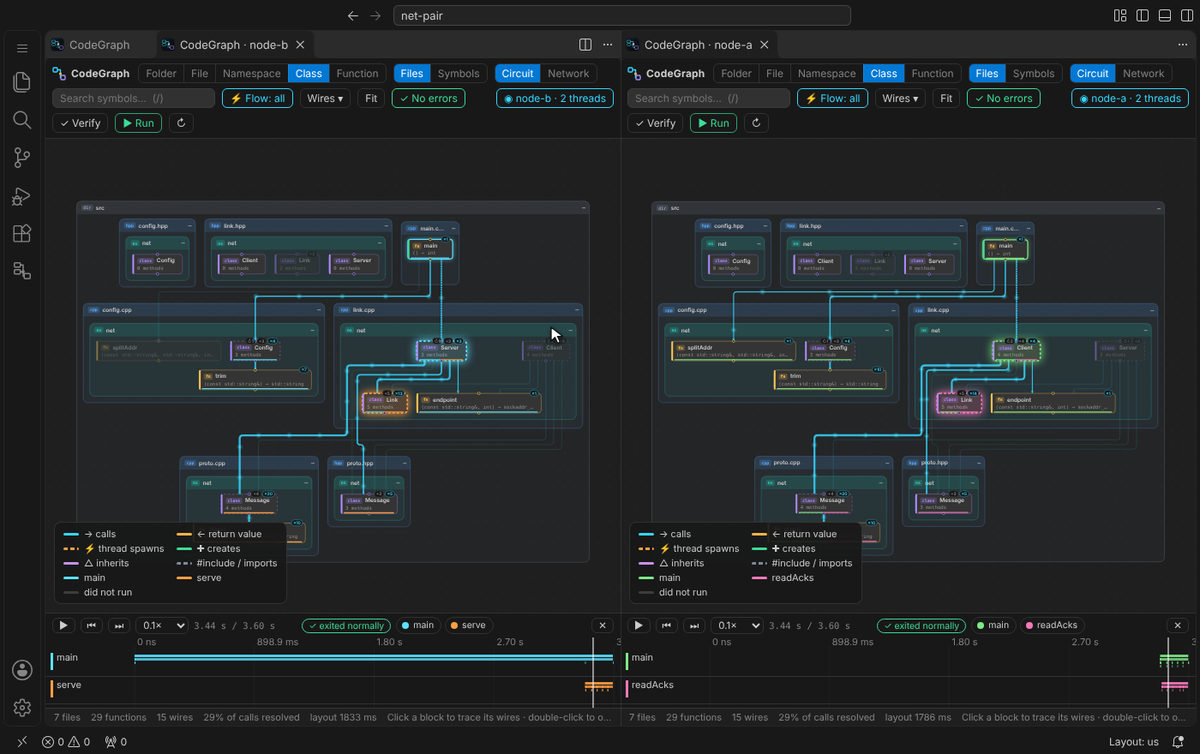
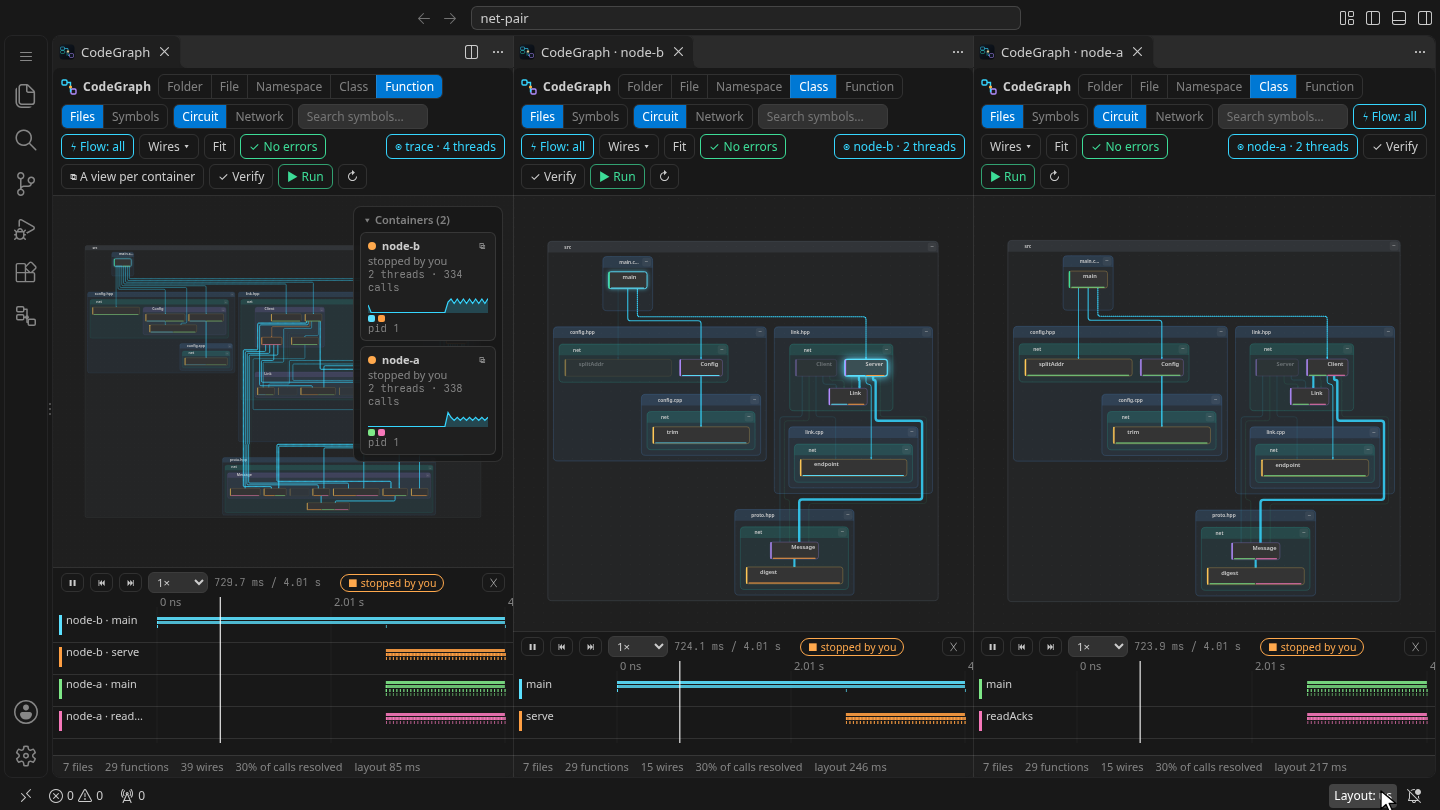
README: new recordings for 0.6.0
The GIFs showed 0.5: start.gif (opening the circuit, now with the level change animated), run.gif
(the C++ router's Run & Trace, now with Ctrl + wheel zoom and the timeline scrollbar), live.gif (the
Compose live view, now with the container cards, the live swimlanes dragged back and one thread
followed, then Stop and the replay) and per-container.png (the run with its cards and a view per
container). Recorded from code-server with Playwright on the examples (examples/cpp/router,
examples/compose/net-pair with more rounds so the live part lasts), cut with ffmpeg and compressed with
gifsicle. Alt texts say what the new pictures show.

diff --git a/README.ko.md b/README.ko.md
@@ -30,7 +30,7 @@
 **▶ 실행**을 누르면 makefile/CMake가 빌드하는 그대로(정의, include·라이브러리 플래그, 실행 위치) 빌드해요.
 `main.cpp` 하나로 프로그램을 여러 개 만들면 어느 걸 실행할지 물어봐요.
 
-![C++ 라우터 실행 & 추적: rx·tx 스레드가 자기 블록을 밝히고 아래 스레드 레인이 재생됨](docs/images/run.gif)
+![C++ 라우터 실행 & 추적: rx·tx 스레드가 자기 블록을 밝히고 아래 스레드 레인이 재생됨. Ctrl + 휠로 확대하고 스크롤바로 이동](docs/images/run.gif)
 
 ### Python
 
@@ -62,7 +62,7 @@ services:
 보낸 요청을 다른 노드의 핸들러가 받는 장면까지 재생돼요. VS Code를 컨테이너마다 붙일 필요 없이, 한 번 실행으로
 모든 컨테이너를 원하는 만큼 추적해요.
 
-![두 컨테이너를 실시간으로 따라가다가 멈추고, 한 일을 재생](docs/images/live.gif)
+![두 컨테이너를 실시간으로 따라가며 컨테이너 카드로 node-b만 보고, 실시간 레인을 되돌려 보고, 스레드 하나를 따라간 뒤 멈추고 재생](docs/images/live.gif)
 
 오른쪽에는 컨테이너마다 카드가 떠서 실행 중인지, 초당 호출 수, 활동 그래프를 보여 줘요. 카드를 누르면 실시간이든
 재생이든 그 컨테이너의 코드와 스레드만 보여요. 회로 아래에는 스레드마다 호출 스택을 그린 레인이 실행을 따라 흘러가고(끌어서
@@ -71,7 +71,7 @@ services:
 **⧉ 컨테이너별로 보기**를 누르면 고른 컨테이너마다 회로도가 하나씩 나란히 열려요. 함께 재생되고, 각 회로도에는 그
 컨테이너에서 실행된 것만 보여요.
 
-![node-b와 node-a를 나란히: 같은 순간 node-b의 Server와 node-a의 Client가 빛남](docs/images/per-container.png)
+![전체 실행과 컨테이너 카드, 그리고 따로 연 node-b와 node-a 창이 함께 재생됨](docs/images/per-container.png)
 
 ### 어디가 깨졌는지
 

diff --git a/README.md b/README.md
@@ -32,7 +32,7 @@ folder per feature with a checklist of what to look for, and the projects pictur
 Click **▶ Run**. CodeGraph builds the program the way your makefile or CMake does (defines, include and library
 flags, the folder it runs from). If one `main.cpp` goes into several programs, it asks which one to run.
 
-![Run & Trace of a C++ router: the rx and tx threads light up their blocks while the swimlanes below play](docs/images/run.gif)
+![Run & Trace of a C++ router: the rx and tx threads light up their blocks while the swimlanes below play; Ctrl + wheel zooms in and the scrollbar moves along the run](docs/images/run.gif)
 
 ### Python
 
@@ -64,7 +64,7 @@ Click **Run & Trace with Docker Compose**: the circuit follows both containers l
 replay shows one node's request leave and the other node's handler pick it up. You don't need to attach VS Code to
 the containers; one run covers all of them, for as long as you let it run.
 
-![Both containers followed live, then Stop and the replay of what they did](docs/images/live.gif)
+![Both containers followed live: a card per container, only node-b shown, the live lanes dragged back and one thread followed; then Stop and the replay](docs/images/live.gif)
 
 On the right, a card per container shows whether it runs, its calls per second and its activity; click one to see
 only that container's code and threads, live or in the replay. Below the circuit, swimlanes of every thread's stack
@@ -73,7 +73,7 @@ scroll along with the run (drag back to look at an earlier moment), and a click 
 **⧉ A view per container** lets you pick containers and opens a circuit for each, side by side. They play together,
 and each shows only what ran in its own container.
 
-![node-b and node-a side by side: node-b's Server and node-a's Client light up at the same moment](docs/images/per-container.png)
+![The whole run with its container cards, and node-b and node-a in views of their own, replaying together](docs/images/per-container.png)
 
 ### What is broken
 
